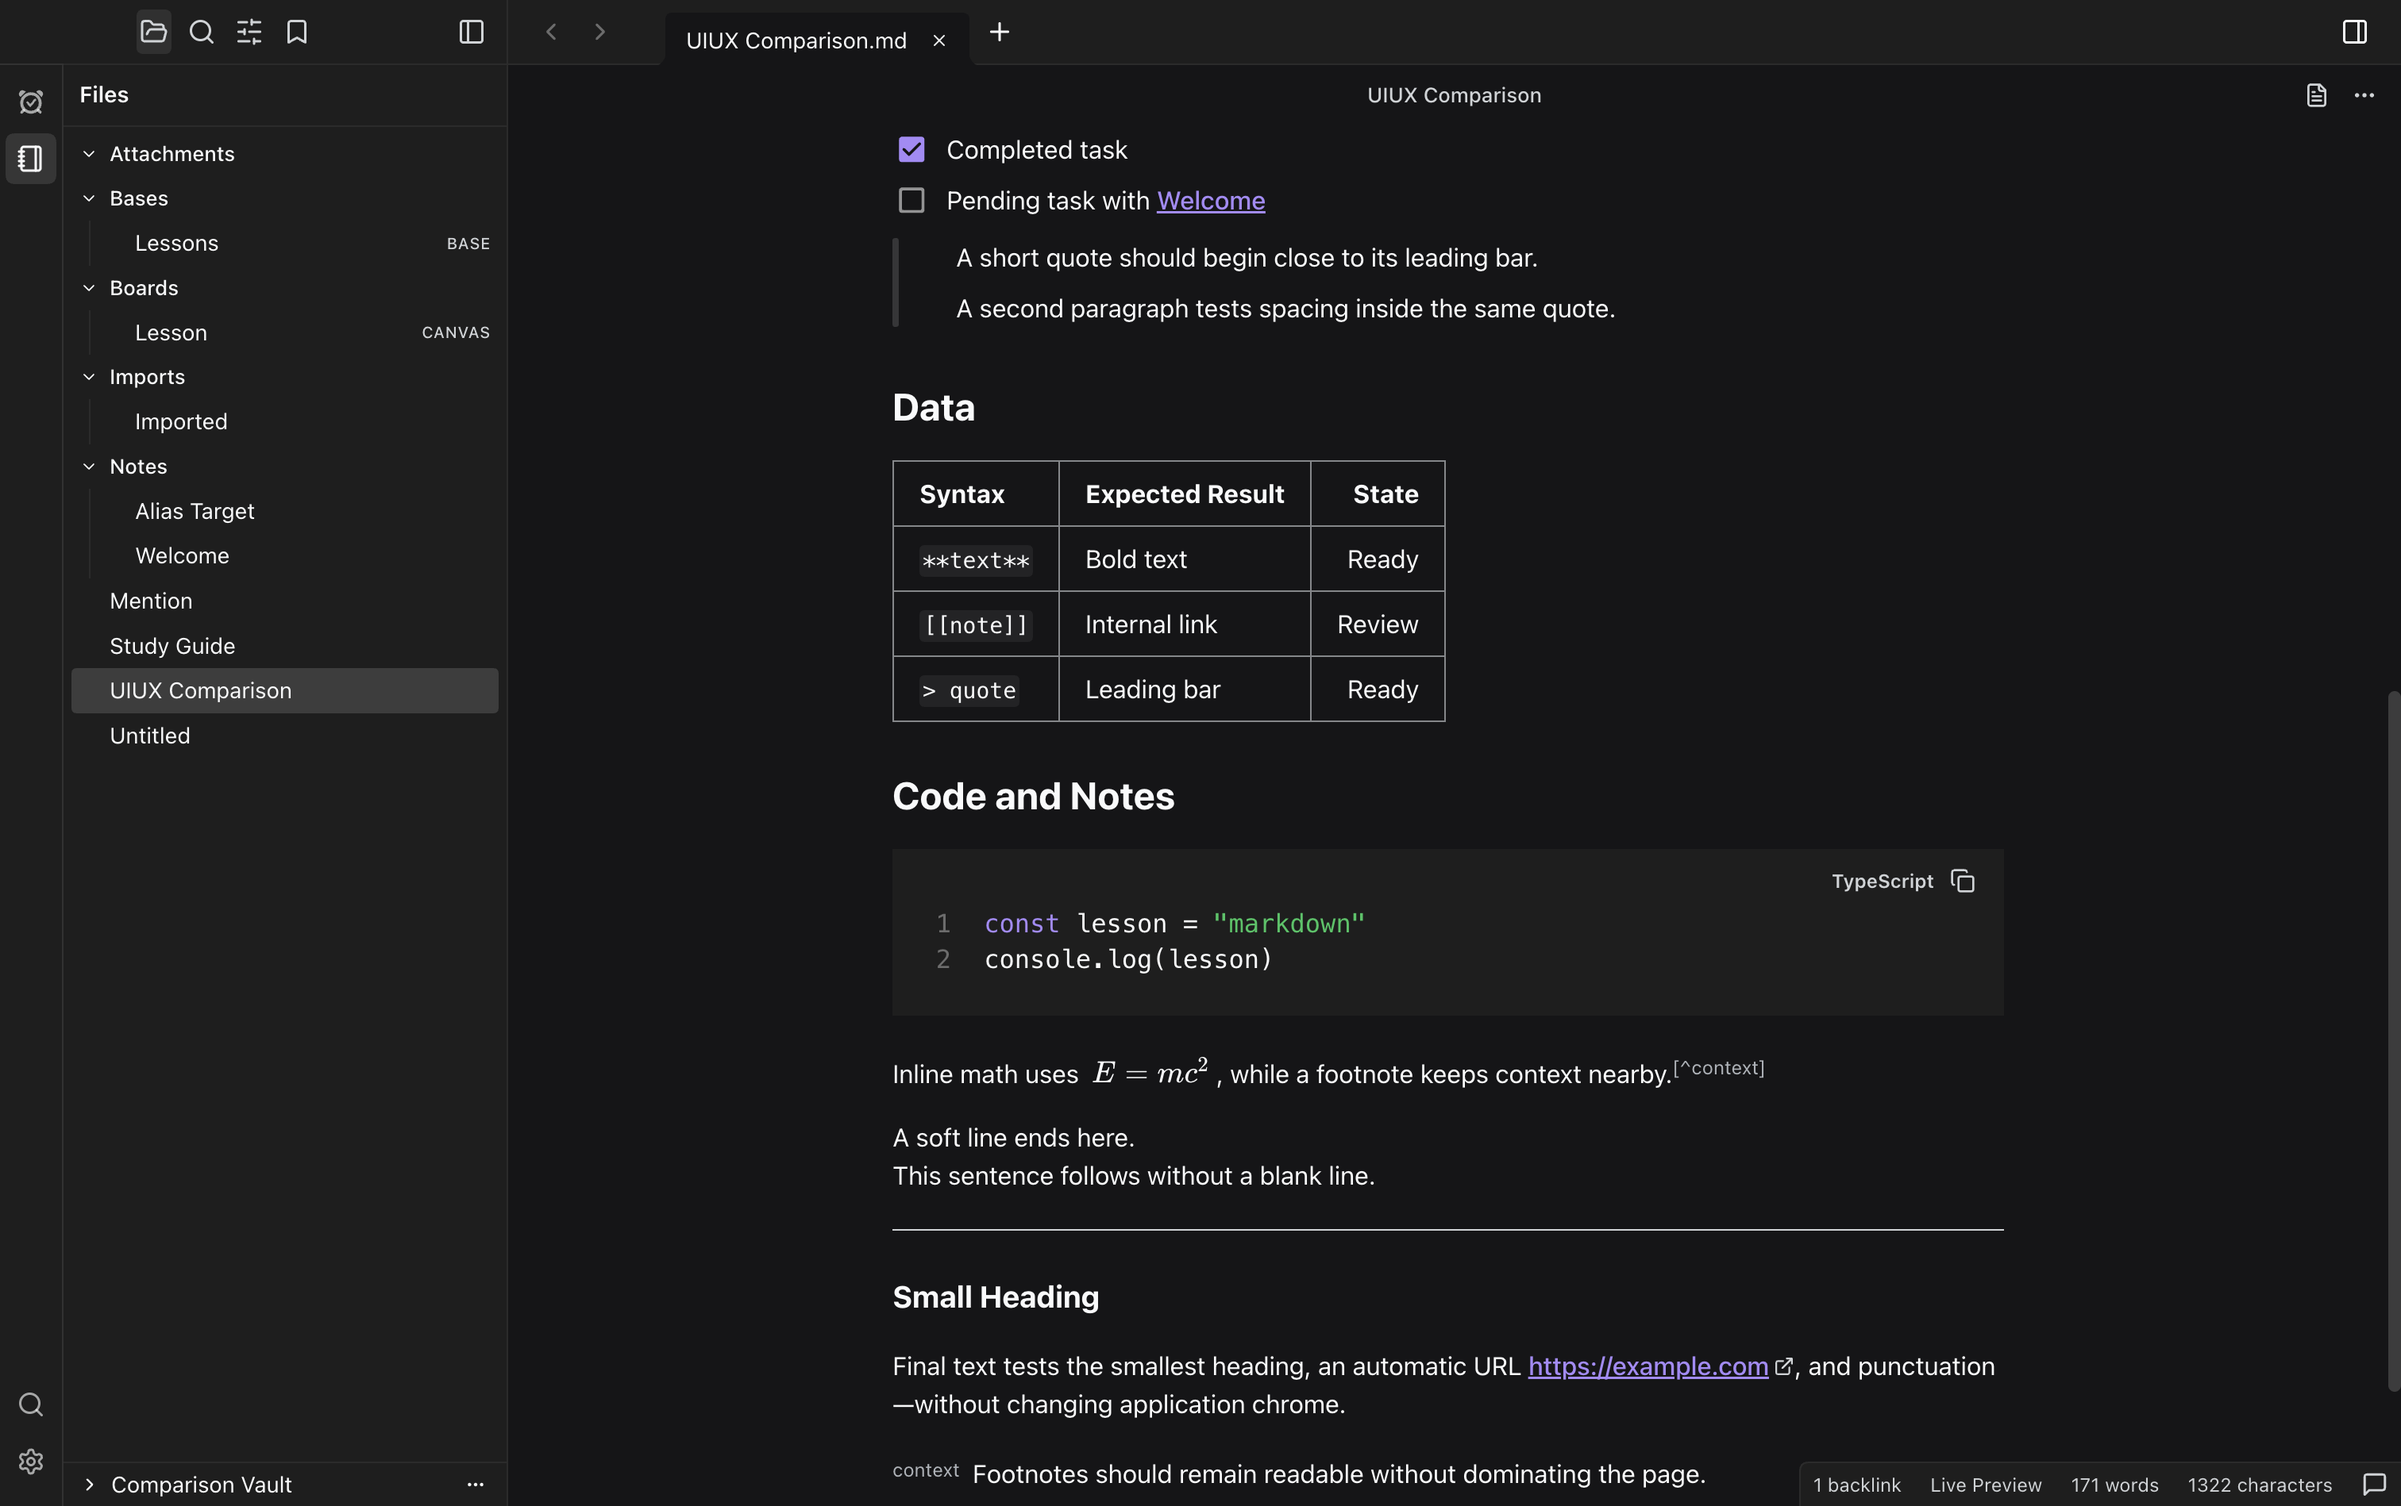
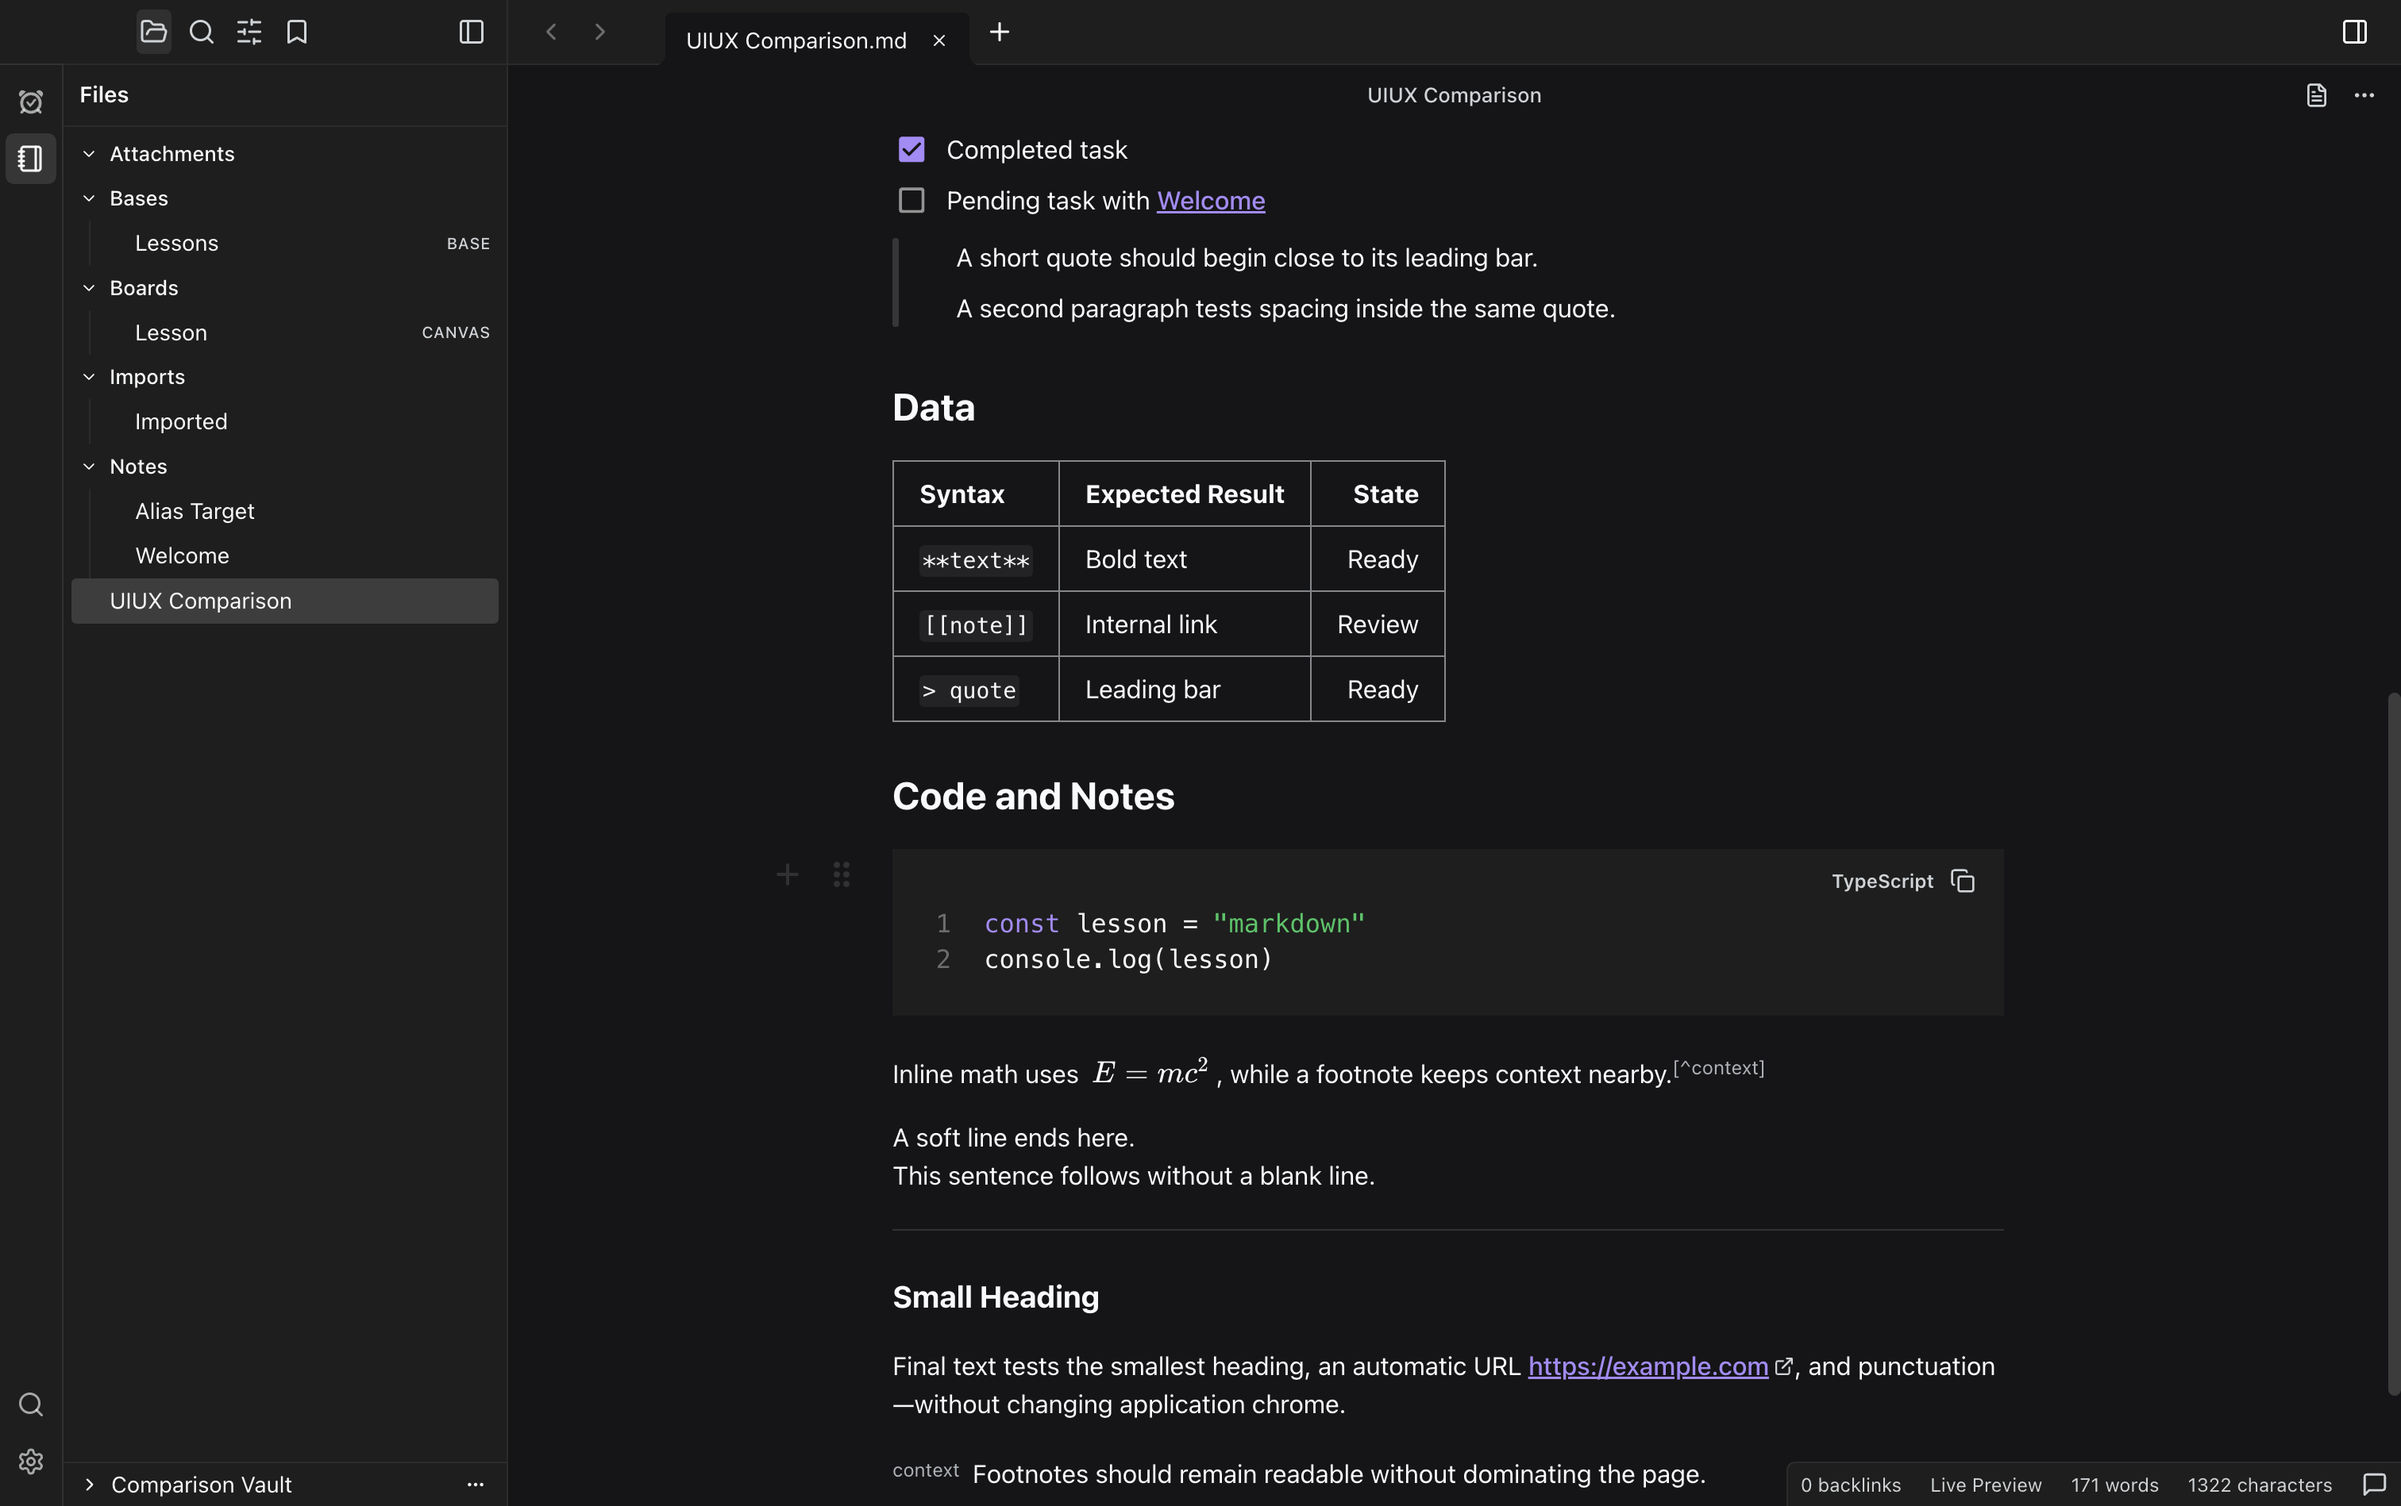
docs(tocktutor): publish live preview divider retake

Changed region(s): [[0.0311, 0.373, 0.2176, 0.4974], [0.746, 0.9636, 0.7771, 0.9947]]

diff --git a/.agents/uiux/tocktutor/content-alignment.md b/.agents/uiux/tocktutor/content-alignment.md
@@ -1,5 +1,9 @@
 # TockTutor and Obsidian Content Alignment
 
+## Divider Parity Retake — 2026-09-26
+
+Retook only `tocktutor-live-preview-lower.png` from the source-built Desktop at `15fa8806`. The authored `---` divider now uses Crepe’s existing `--crepe-color-outline` (mapped to DSH’s semantic border token) rather than the much brighter secondary-label color; the note itself is unchanged. The sampled TockTutor line dimmed from `#d0d3d6` to `#313133`, matching Obsidian’s `#333333` reference closely. The 1512 × 949 CSS-pixel, 2× capture (3024 × 1898) verifies the same note hash, Live Preview route/mode, scrollTop 700, dark theme with no skin, and visible Data, Code and Notes, and Small Heading sections. No renderer or console errors occurred; two development-only Electron/Vue warnings are recorded separately. The owned Electron process tree (root PID 96228) stopped with no descendants. All 62 other screenshots, including all 29 Obsidian references, retained their original hashes. Detailed evidence: `content-alignment.json`.
+
 ## Stronger Divider and Full TockTutor Retake — 2026-09-25
 
[1 lines of base64/hex data omitted]
